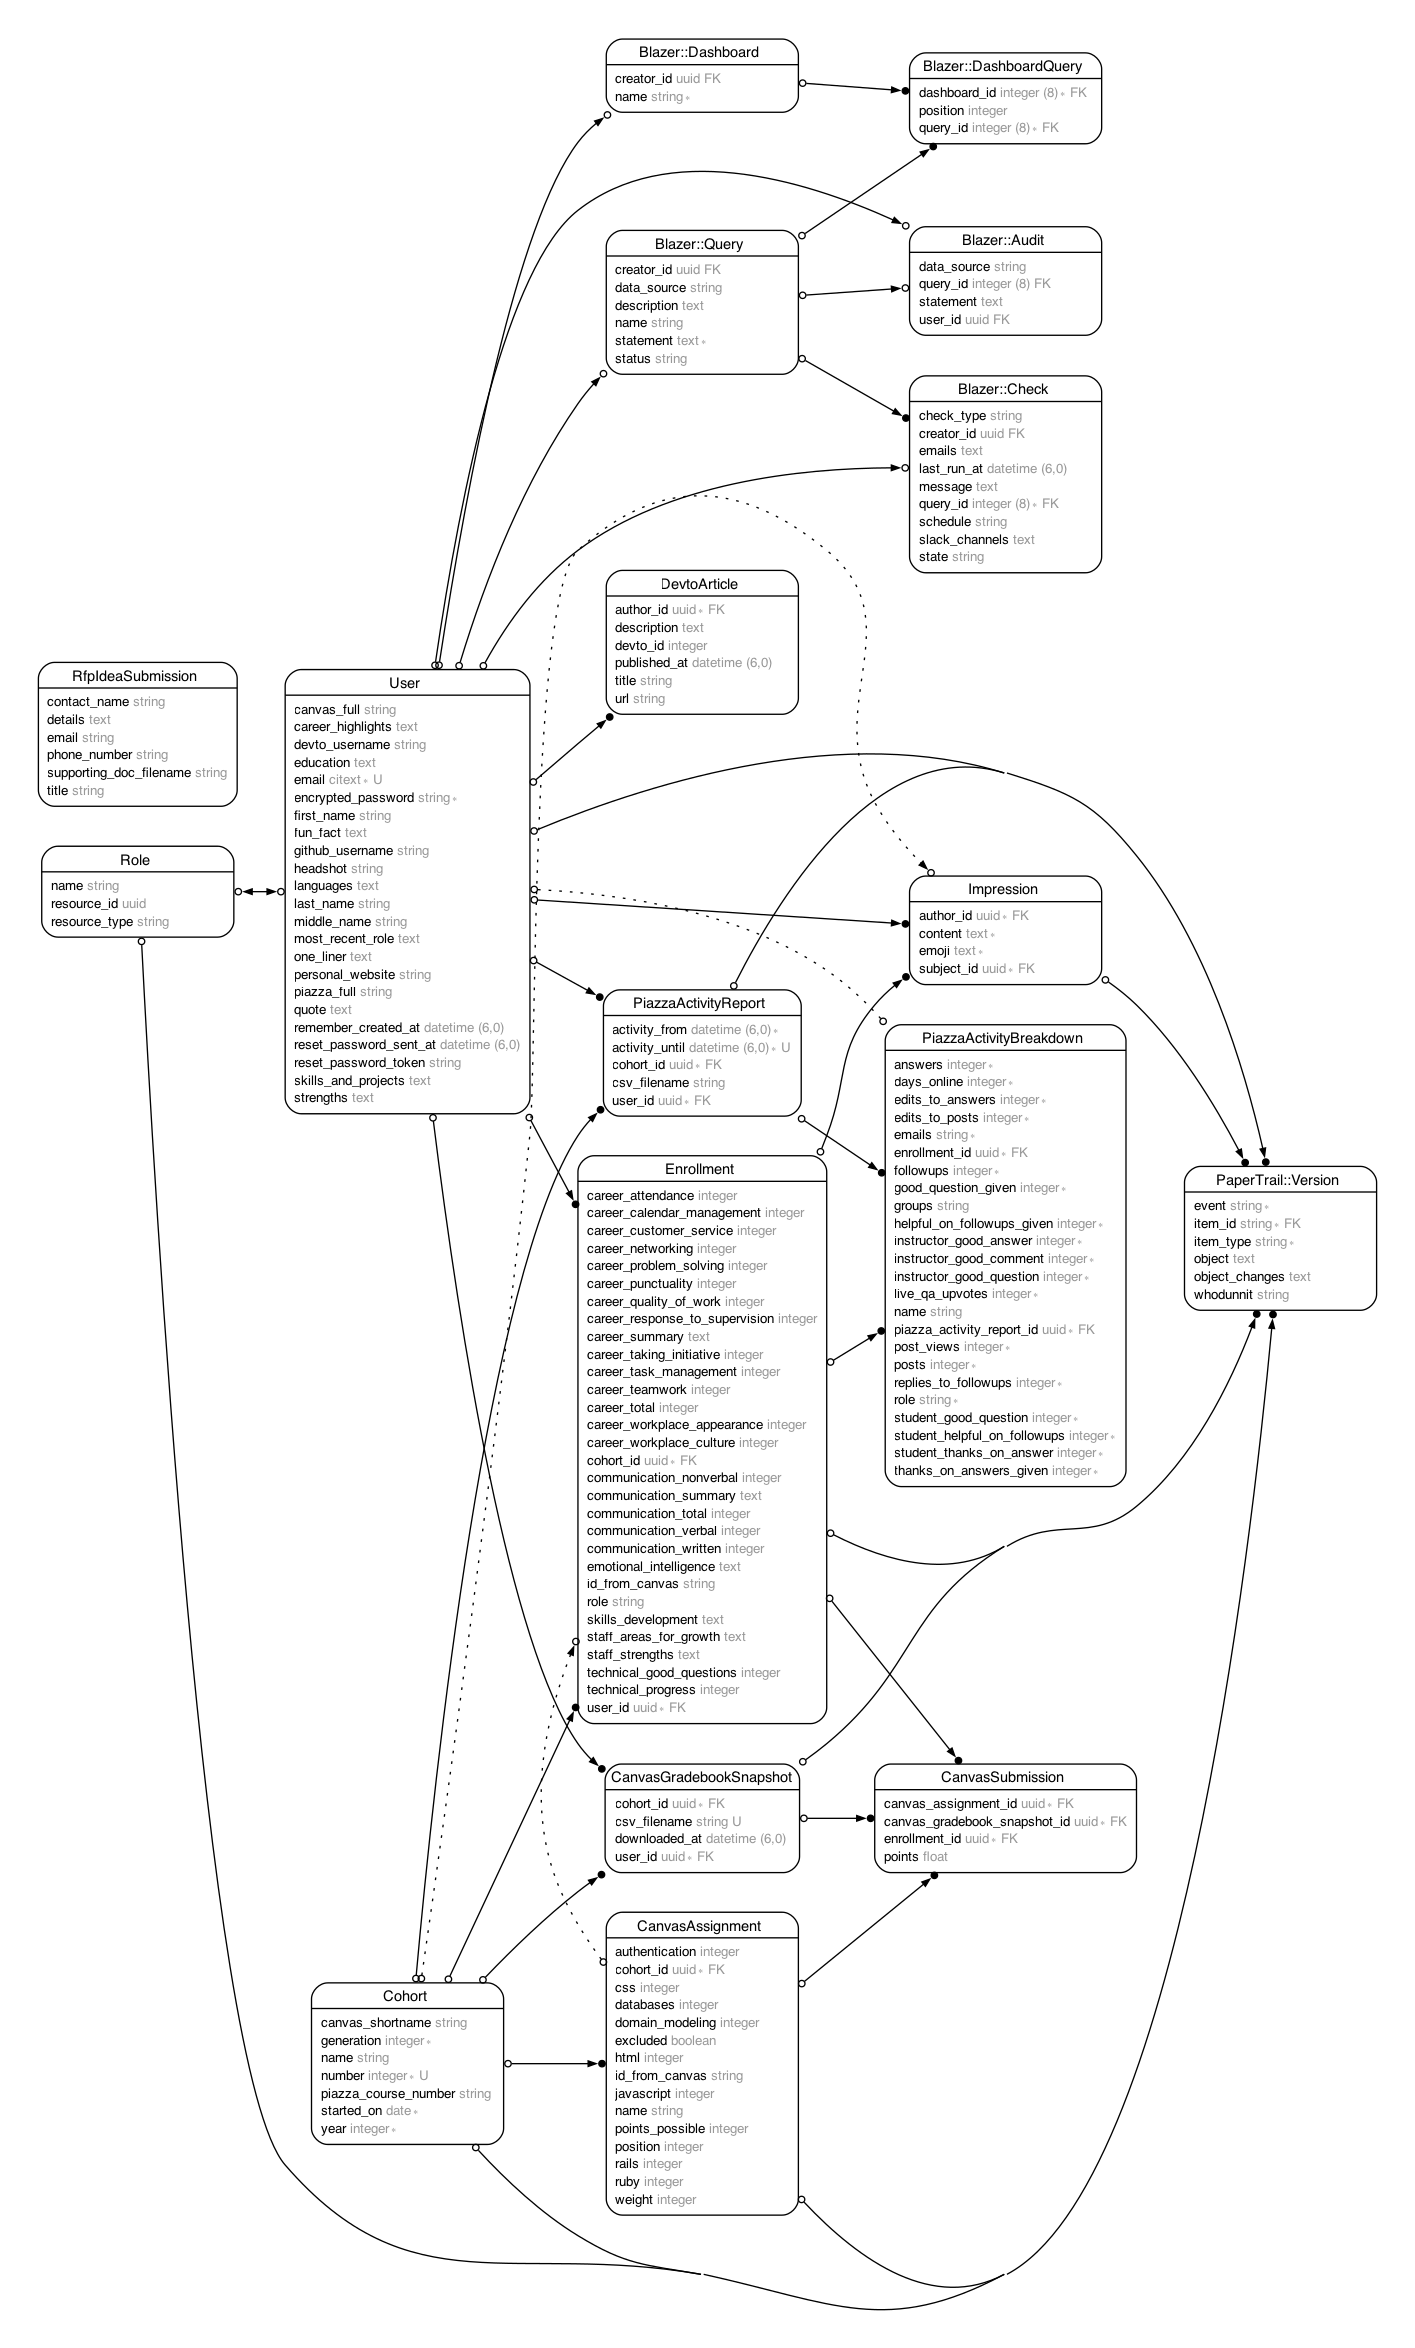
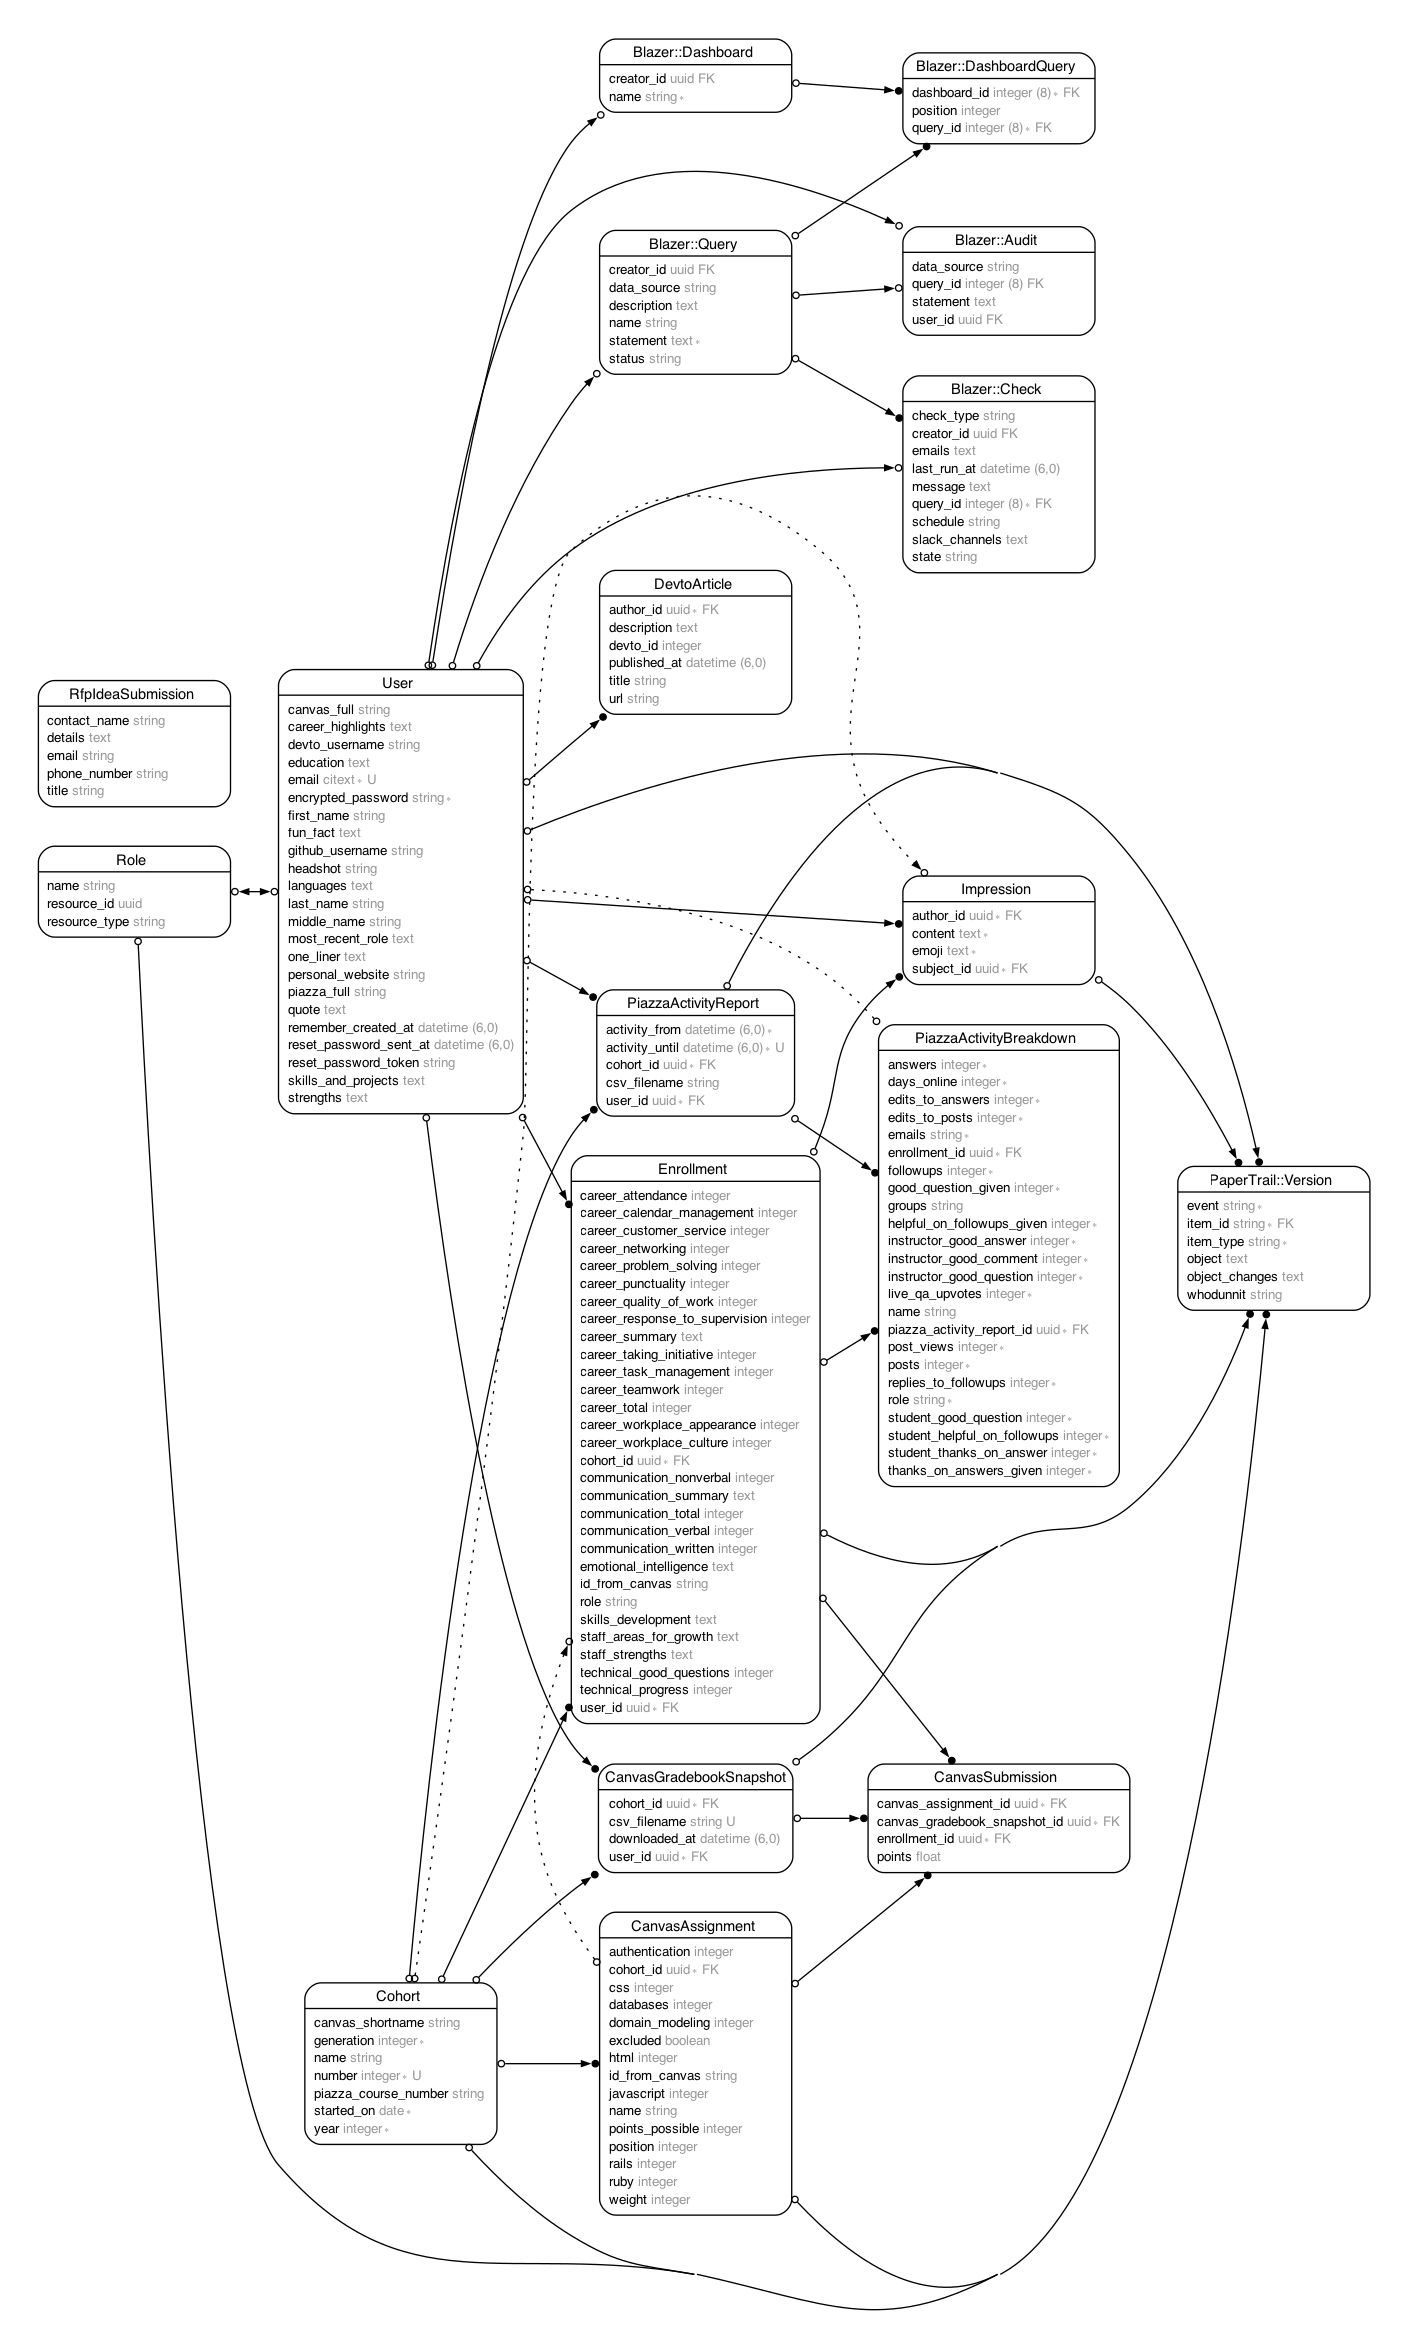
removed supporting_document column from rfp_idea_submissions model

diff --git a/app/models/rfp_idea_submission.rb b/app/models/rfp_idea_submission.rb
@@ -2,15 +2,14 @@
 #
 # Table name: rfp_idea_submissions
 #
-#  id                      :uuid             not null, primary key
-#  contact_name            :string
-#  details                 :text
-#  email                   :string
-#  phone_number            :string
-#  supporting_doc_filename :string
-#  title                   :string
-#  created_at              :datetime         not null
-#  updated_at              :datetime         not null
+#  id           :uuid             not null, primary key
+#  contact_name :string
+#  details      :text
+#  email        :string
+#  phone_number :string
+#  title        :string
+#  created_at   :datetime         not null
+#  updated_at   :datetime         not null
 #
 class RfpIdeaSubmission < ApplicationRecord
 end

diff --git a/spec/models/rfp_idea_submission_spec.rb b/spec/models/rfp_idea_submission_spec.rb
@@ -2,15 +2,14 @@
 #
 # Table name: rfp_idea_submissions
 #
-#  id                      :uuid             not null, primary key
-#  contact_name            :string
-#  details                 :text
-#  email                   :string
-#  phone_number            :string
-#  supporting_doc_filename :string
-#  title                   :string
-#  created_at              :datetime         not null
-#  updated_at              :datetime         not null
+#  id           :uuid             not null, primary key
+#  contact_name :string
+#  details      :text
+#  email        :string
+#  phone_number :string
+#  title        :string
+#  created_at   :datetime         not null
+#  updated_at   :datetime         not null
 #
 require 'rails_helper'
 

diff --git a/db/schema.rb b/db/schema.rb
@@ -10,7 +10,7 @@
 #
 # It's strongly recommended that you check this file into your version control system.
 
-ActiveRecord::Schema[7.0].define(version: 2024_03_01_024502) do
+ActiveRecord::Schema[7.0].define(version: 2024_03_01_024939) do
   # These are extensions that must be enabled in order to support this database
   enable_extension "citext"
   enable_extension "pgcrypto"
@@ -238,7 +238,6 @@ ActiveRecord::Schema[7.0].define(version: 2024_03_01_024502) do
     t.string "email"
     t.string "title"
     t.text "details"
-    t.string "supporting_doc_filename"
     t.datetime "created_at", null: false
     t.datetime "updated_at", null: false
     t.string "phone_number"

diff --git a/db/migrate/20240301024939_remove_supporting_doc_filename_from_rfp_idea_submissions.rb b/db/migrate/20240301024939_remove_supporting_doc_filename_from_rfp_idea_submissions.rb
@@ -1,0 +1,5 @@
+class RemoveSupportingDocFilenameFromRfpIdeaSubmissions < ActiveRecord::Migration[7.0]
+  def change
+    remove_column :rfp_idea_submissions, :supporting_doc_filename 
+  end
+end
